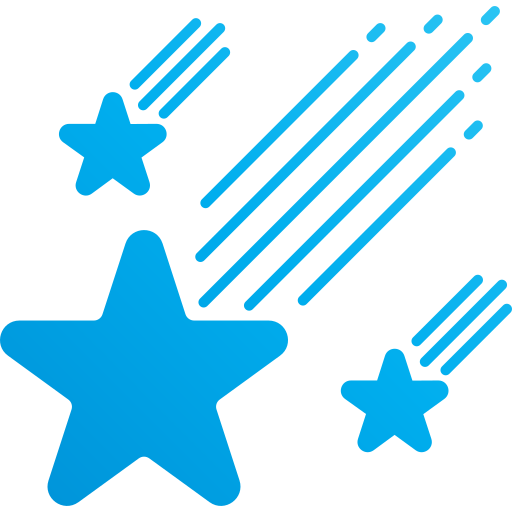
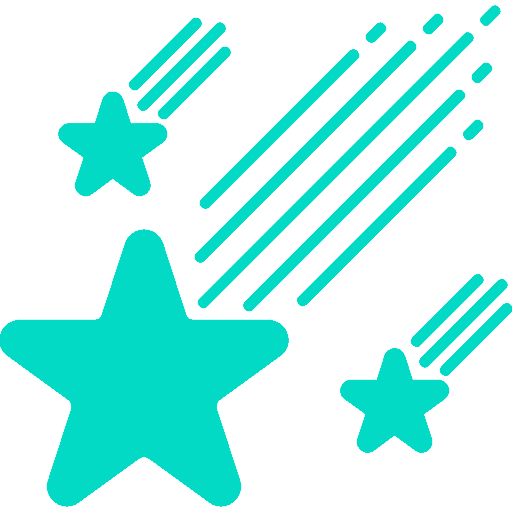
init

diff --git a/lib/screens/login_screen.dart b/lib/screens/login_screen.dart
@@ -11,6 +11,8 @@ class LoginScreen extends StatefulWidget {
 
 class _LoginScreenState extends State<LoginScreen> {
   final _auth = FirebaseAuth.instance;
+  TextEditingController _emailController = TextEditingController();
+  TextEditingController _passwordController = TextEditingController();
 
   String email = '';
   String password = '';
@@ -19,12 +21,18 @@ class _LoginScreenState extends State<LoginScreen> {
   @override
   Widget build(BuildContext context) {
     return Scaffold(
+      backgroundColor: backgroundColor,
       appBar: AppBar(
+        backgroundColor: backgroundColor,
+        shadowColor: secondaryColor,
         leading: IconButton(
           onPressed: () {
             Navigator.pop(context);
           },
-          icon: const Icon(Icons.arrow_back_ios_rounded),
+          icon: const Icon(
+            Icons.arrow_back_ios_rounded,
+            color: secondaryColor,
+          ),
         ),
       ),
       body: Center(
@@ -46,19 +54,19 @@ class _LoginScreenState extends State<LoginScreen> {
             SizedBox(
               width: MediaQuery.of(context).size.height / 3,
               child: TextField(
+                controller: _emailController,
                 onChanged: (value) {
                   email = value;
                 },
                 decoration: textFieldDecoration.copyWith(
-                  hintText: 'Enter your email ...',
+                  hintText: 'Enter your email',
                 ),
                 style: const TextStyle(
-                  color: Colors.black,
+                  color: backgroundColor,
                   fontSize: 15,
                 ),
                 textAlign: TextAlign.center,
                 keyboardType: TextInputType.visiblePassword,
-                obscureText: true,
               ),
             ),
             const SizedBox(
@@ -67,18 +75,20 @@ class _LoginScreenState extends State<LoginScreen> {
             SizedBox(
               width: MediaQuery.of(context).size.height / 3,
               child: TextField(
+                controller: _passwordController,
                 onChanged: (value) {
                   password = value;
                 },
                 decoration: textFieldDecoration.copyWith(
-                  hintText: 'Enter your password ...',
+                  hintText: 'Enter your password',
                 ),
                 style: const TextStyle(
-                  color: Colors.black,
+                  color: backgroundColor,
                   fontSize: 15,
                 ),
                 textAlign: TextAlign.center,
                 keyboardType: TextInputType.visiblePassword,
+                obscureText: true,
               ),
             ),
             const SizedBox(
@@ -101,6 +111,31 @@ class _LoginScreenState extends State<LoginScreen> {
                   }
                 } catch (e) {
                   setState(() {
+                    showDialog(
+                      context: context,
+                      builder: (_) => AlertDialog(
+                        title: const Text('Error'),
+                        content: Text(
+                          e.toString().substring(e.toString().indexOf(']') + 1,
+                              e.toString().length),
+                        ),
+                        backgroundColor: errorColor,
+                        actions: [
+                          TextButton(
+                            onPressed: () {
+                              Navigator.pop(context);
+                              _emailController.clear();
+                              _passwordController.clear();
+                            },
+                            child: const Text(
+                              'Ok',
+                              style:
+                                  TextStyle(color: Colors.black, fontSize: 20),
+                            ),
+                          ),
+                        ],
+                      ),
+                    );
                     isLoading = false;
                   });
                 }
@@ -108,7 +143,7 @@ class _LoginScreenState extends State<LoginScreen> {
               child: const Text(
                 'Log in',
                 style: TextStyle(
-                  color: Colors.white,
+                  color: backgroundColor,
                 ),
               ),
               style: buttonStyle,
@@ -118,9 +153,12 @@ class _LoginScreenState extends State<LoginScreen> {
             ),
             SizedBox(
               width: MediaQuery.of(context).size.width / 2,
-              child: isLoading ? const LinearProgressIndicator(
-                color: Colors.blue,
-              ) : Container(),
+              child: isLoading
+                  ? const LinearProgressIndicator(
+                      color: secondaryColor,
+                      backgroundColor: Colors.black54,
+                    )
+                  : Container(),
             ),
           ],
         ),

diff --git a/lib/screens/chat_screen.dart b/lib/screens/chat_screen.dart
@@ -4,6 +4,7 @@ import 'package:flutter/material.dart';
 import 'package:firebase_auth/firebase_auth.dart';
 import 'package:cloud_firestore/cloud_firestore.dart';
 import 'package:flutter/scheduler.dart';
+import 'package:my_chat_app/constants.dart';
 
 class ChatScreen extends StatefulWidget {
   ChatScreen({Key? key}) : super(key: key);
@@ -50,12 +51,15 @@ class _ChatScreenState extends State<ChatScreen> {
   @override
   Widget build(BuildContext context) {
     return Scaffold(
+      backgroundColor: backgroundColor,
       appBar: AppBar(
+        backgroundColor: backgroundColor,
+        shadowColor: secondaryColor,
         leading: IconButton(
           onPressed: () {
             Navigator.pop(context);
           },
-          icon: const Icon(Icons.arrow_back_ios_new_rounded),
+          icon: const Icon(Icons.arrow_back_ios_new_rounded, color: secondaryColor,),
         ),
         actions: [
           IconButton(
@@ -66,6 +70,7 @@ class _ChatScreenState extends State<ChatScreen> {
             },
             icon: const Icon(
               Icons.close,
+              color: errorColor,
             ),
           ),
         ],
@@ -80,7 +85,7 @@ class _ChatScreenState extends State<ChatScreen> {
               decoration: const BoxDecoration(
                 border: Border(
                   top: BorderSide(
-                    color: Colors.blue,
+                    color: secondaryColor,
                     width: 2,
                   ),
                 ),
@@ -93,6 +98,9 @@ class _ChatScreenState extends State<ChatScreen> {
                       child: Padding(
                         padding: const EdgeInsets.only(left: 20),
                         child: TextField(
+                          style: const TextStyle(
+                            color: secondaryColor,
+                          ),
                           controller: _textEditingController,
                           onChanged: (value) {
                             messageText = value;
@@ -100,6 +108,9 @@ class _ChatScreenState extends State<ChatScreen> {
                           decoration: const InputDecoration(
                             hintText: 'Type your message here ...',
                             border: InputBorder.none,
+                            hintStyle: TextStyle(
+                              color: secondaryColor,
+                            ),
                           ),
                         ),
                       ),
@@ -127,7 +138,7 @@ class _ChatScreenState extends State<ChatScreen> {
                         },
                         icon: const Icon(
                           Icons.send,
-                          color: Colors.blue,
+                          color: secondaryColor,
                           size: 40,
                         ),
                       ),
@@ -186,7 +197,7 @@ class DataStream extends StatelessWidget {
             final messageWidget = MessageBox(
               sender: messageSender,
               text: messageText,
-              color: Colors.green,
+              color: primaryVariantColor,
               crossAxisAlignment: CrossAxisAlignment.end,
               topleft: 25.0,
               topRight: 0.0,
@@ -196,7 +207,7 @@ class DataStream extends StatelessWidget {
             final messageWidget = MessageBox(
               sender: messageSender,
               text: messageText,
-              color: Colors.red,
+              color: primaryColor,
               crossAxisAlignment: CrossAxisAlignment.start,
               topleft: 0.0,
               topRight: 25.0,
@@ -246,8 +257,6 @@ class MessageBox extends StatelessWidget {
               bottomLeft: const Radius.circular(30.0),
               bottomRight: const Radius.circular(30.0),
             ),
-            elevation: 7.5,
-            shadowColor: color,
             color: color,
             child: Padding(
               padding: const EdgeInsets.symmetric(horizontal: 10, vertical: 20),
@@ -263,7 +272,7 @@ class MessageBox extends StatelessWidget {
           Text(
             sender,
             style: const TextStyle(
-              color: Colors.black45,
+              color: secondaryColor,
             ),
           ),
         ],

diff --git a/lib/screens/registration_screen.dart b/lib/screens/registration_screen.dart
@@ -11,6 +11,8 @@ class RegisterionScreen extends StatefulWidget {
 
 class _RegisterionScreenState extends State<RegisterionScreen> {
   final _auth = FirebaseAuth.instance;
+  TextEditingController _emailController = TextEditingController();
+  TextEditingController _passwordController = TextEditingController();
 
   String email = '';
   String password = '';
@@ -19,7 +21,10 @@ class _RegisterionScreenState extends State<RegisterionScreen> {
   @override
   Widget build(BuildContext context) {
     return Scaffold(
+      backgroundColor: backgroundColor,
       appBar: AppBar(
+        backgroundColor: backgroundColor,
+        shadowColor: secondaryColor,
         leading: IconButton(
           onPressed: () {
             Navigator.pop(context);
@@ -101,6 +106,31 @@ class _RegisterionScreenState extends State<RegisterionScreen> {
                   }
                 } catch (e) {
                   setState(() {
+                    showDialog(
+                      context: context,
+                      builder: (_) => AlertDialog(
+                        title: const Text('Error'),
+                        content: Text(
+                          e.toString().substring(e.toString().indexOf(']') + 1,
+                              e.toString().length),
+                        ),
+                        backgroundColor: errorColor,
+                        actions: [
+                          TextButton(
+                            onPressed: () {
+                              Navigator.pop(context);
+                              _emailController.clear();
+                              _passwordController.clear();
+                            },
+                            child: const Text(
+                              'Ok',
+                              style:
+                                  TextStyle(color: Colors.black, fontSize: 20),
+                            ),
+                          ),
+                        ],
+                      ),
+                    );
                     isLoading = false;
                   });
                 }
@@ -108,20 +138,23 @@ class _RegisterionScreenState extends State<RegisterionScreen> {
               child: const Text(
                 'Register',
                 style: TextStyle(
-                  color: Colors.white,
+                  color: backgroundColor,
                 ),
               ),
               style: buttonStyle,
             ),
             const SizedBox(
-              height: 15,
+              height: 25,
             ),
             SizedBox(
               width: MediaQuery.of(context).size.width / 2,
               child: isLoading
-                  ? const LinearProgressIndicator(
-                      color: Colors.blue,
-                    )
+                  ? const Center(
+                    child: LinearProgressIndicator(
+                        color: secondaryColor,
+                        backgroundColor: Colors.black54,
+                      ),
+                  )
                   : Container(),
             ),
           ],

diff --git a/lib/constants.dart b/lib/constants.dart
@@ -2,24 +2,40 @@ import 'package:flutter/material.dart';
 
 InputDecoration textFieldDecoration = InputDecoration(
   hintStyle: const TextStyle(
-    color: Colors.grey,
+    color: backgroundColor,
     fontSize: 15,
   ),
   border: OutlineInputBorder(
     borderRadius: BorderRadius.circular(30),
   ),
+  fillColor: primaryColor,
   filled: true,
-  fillColor: Colors.grey[100],
+  focusedBorder: OutlineInputBorder(
+    borderSide: const BorderSide(color: primaryColor, width: 1.0,),
+    borderRadius: BorderRadius.circular(30),
+  ),
+  enabledBorder: OutlineInputBorder(
+    borderSide: const BorderSide(color: primaryColor, width: 1.0,),
+    borderRadius: BorderRadius.circular(30),
+  ),
 );
 
 ButtonStyle buttonStyle = ButtonStyle(
   minimumSize: MaterialStateProperty.all(const Size(300, 50)),
   splashFactory: InkSplash.splashFactory,
-  backgroundColor: MaterialStateProperty.all(Colors.blue),
-  elevation: MaterialStateProperty.all(7),
+  backgroundColor: MaterialStateProperty.all(secondaryColor),
+  elevation: MaterialStateProperty.all(10),
+  shadowColor: MaterialStateProperty.all(secondaryColor),
   shape: MaterialStateProperty.all(
     RoundedRectangleBorder(
       borderRadius: BorderRadius.circular(40),
     ),
   ),
 );
+
+const Color primaryColor = Color(0xFFBB86FC);
+const Color primaryVariantColor = Color(0xFF3700B3);
+const Color secondaryColor = Color(0xFF03DAC6);
+const Color backgroundColor = Color(0xFF121212);
+const Color errorColor = Color(0xFFCF6679);
+

diff --git a/lib/screens/welcome_screen.dart b/lib/screens/welcome_screen.dart
@@ -7,6 +7,7 @@ class WelcomeScreen extends StatelessWidget {
   @override
   Widget build(BuildContext context) {
     return Scaffold(
+      backgroundColor: backgroundColor,
       body: Center(
         child: Column(
           mainAxisAlignment: MainAxisAlignment.center,
@@ -28,7 +29,7 @@ class WelcomeScreen extends StatelessWidget {
               child: const Text(
                 'Log in',
                 style: TextStyle(
-                  color: Colors.white,
+                  color: backgroundColor,
                 ),
               ),
               style: buttonStyle,
@@ -43,7 +44,7 @@ class WelcomeScreen extends StatelessWidget {
               child: const Text(
                 'Register',
                 style: TextStyle(
-                  color: Colors.white,
+                  color: backgroundColor,
                 ),
               ),
               style: buttonStyle,
